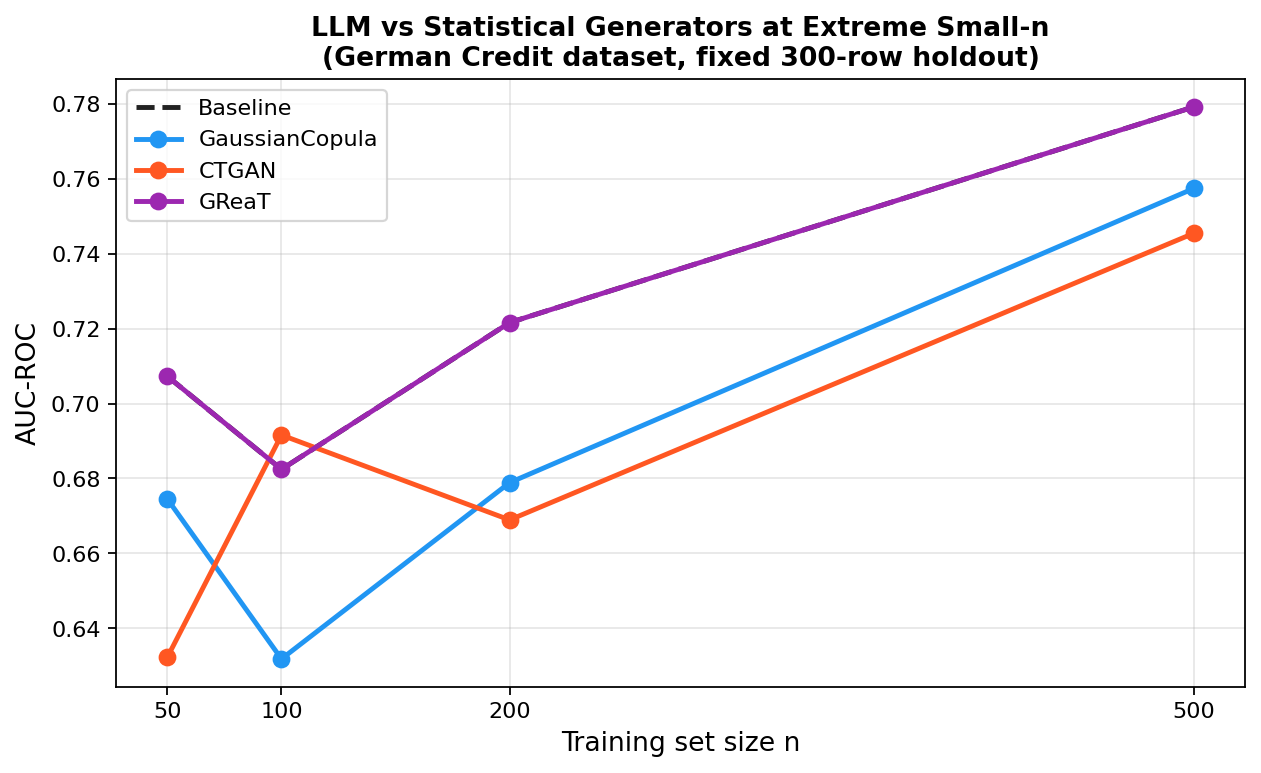
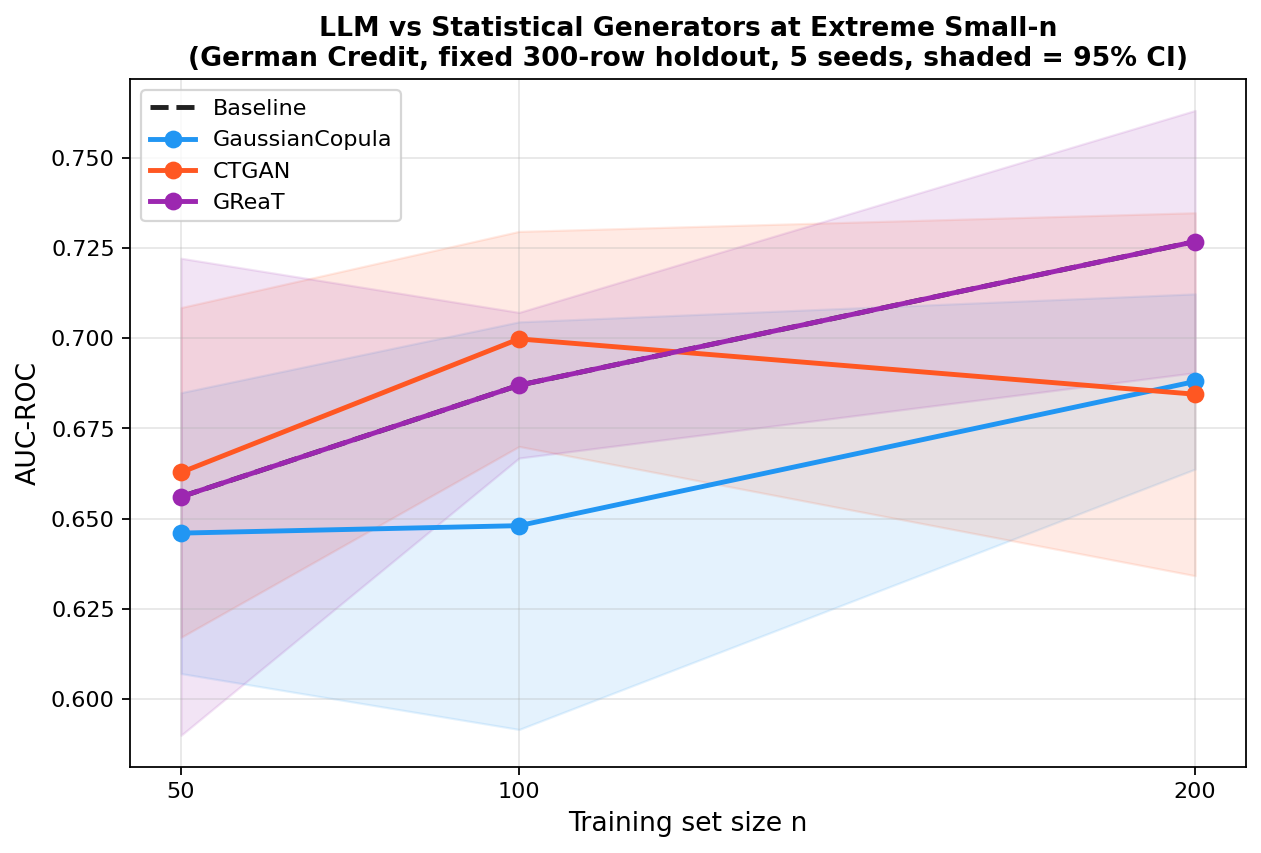
Add GReaT CI results; update small-n table and plot with 5-seed confidence intervals
GReaT matches baseline exactly at n=50,100,200 (gain=0.000) across all 5 seeds.
GC degrades -1 to -4 pts; CTGAN mixed. Finding is robust.

diff --git a/experiments/make_plots.py b/experiments/make_plots.py
@@ -240,13 +240,54 @@ if gain_data:
 # 4. GReaT small-n comparison
 # ─────────────────────────────────────────────────────────────────────────────
 
-great_path = RESULTS / "metrics_great_german_credit.csv"
-if great_path.exists():
+ci_great_path = RESULTS / "ci_great_german.csv"
+great_path    = RESULTS / "metrics_great_german_credit.csv"
+
+if ci_great_path.exists():
+    from scipy import stats as sc
+    df_gr = pd.read_csv(ci_great_path)
+    ns = sorted(df_gr["n"].unique())
+
+    fig, ax = plt.subplots(figsize=(8, 5.5))
+
+    for gen in ["Baseline", "GaussianCopula", "CTGAN", "GReaT"]:
+        sub = df_gr[df_gr["method"] == gen]
+        if sub.empty:
+            continue
+        means, lows, highs, ns_plot = [], [], [], []
+        for n in ns:
+            vals = sub[sub["n"] == n]["auc"].values
+            if len(vals) == 0:
+                continue
+            m = np.mean(vals)
+            h = sc.sem(vals) * sc.t.ppf(0.975, df=len(vals)-1) if len(vals) > 1 else 0
+            means.append(m); lows.append(m-h); highs.append(m+h); ns_plot.append(n)
+
+        ls = "--" if gen == "Baseline" else "-"
+        marker = None if gen == "Baseline" else "o"
+        ax.plot(ns_plot, means, linestyle=ls, marker=marker,
+                label=gen, color=COLORS.get(gen, "#888"), **STYLE)
+        if gen != "Baseline":
+            ax.fill_between(ns_plot, lows, highs,
+                            color=COLORS.get(gen, "#888"), alpha=0.12)
+
+    ax.set_xlabel("Training set size n", fontsize=12)
+    ax.set_ylabel("AUC-ROC", fontsize=12)
+    ax.set_title("LLM vs Statistical Generators at Extreme Small-n\n"
+                 "(German Credit, fixed 300-row holdout, 5 seeds, shaded = 95% CI)",
+                 fontsize=12, fontweight="bold")
+    ax.legend(fontsize=10)
+    ax.grid(alpha=0.3)
+    ax.set_xticks(ns)
+    plt.tight_layout()
+    plt.savefig(PLOTS / "plot_great_smalln.png", dpi=160, bbox_inches="tight")
+    plt.close()
+    print("Saved: plot_great_smalln.png")
+
+elif great_path.exists():
     df_gr = pd.read_csv(great_path)
-    # Expect columns: n, method/generator, auc_roc (or auc)
     auc_col = "auc_roc" if "auc_roc" in df_gr.columns else "auc"
     gen_col  = "method"  if "method"  in df_gr.columns else "generator"
-
     ns = sorted(df_gr["n"].unique()) if "n" in df_gr.columns else []
     if ns:
         fig, ax = plt.subplots(figsize=(8, 5))
@@ -258,7 +299,6 @@ if great_path.exists():
             marker = None if gen == "Baseline" else "o"
             ax.plot(sub["n"], sub[auc_col], linestyle=ls, marker=marker,
                     label=gen, color=COLORS.get(gen, "#888"), **STYLE)
-
         ax.set_xlabel("Training set size n", fontsize=12)
         ax.set_ylabel("AUC-ROC", fontsize=12)
         ax.set_title("LLM vs Statistical Generators at Extreme Small-n\n"

diff --git a/papers/synthetic-data-marketing-eval.md b/papers/synthetic-data-marketing-eval.md
@@ -335,14 +335,13 @@ The experiments in Sections 6.1–6.5 use GaussianCopula and CTGAN — generator
 
 ![GReaT vs Statistical Generators at Small-n](../results/plots/plot_great_smalln.png)
 
-| n (train) | Baseline | GaussianCopula | CTGAN | **GReaT** |
+| n (train) | Baseline (mean ± CI) | GaussianCopula | CTGAN | **GReaT** |
 |---|---|---|---|---|
-| 50 | 0.707 | 0.674 (−4.7%) | 0.632 (−10.5%) | **0.707 (0.0%)** |
-| 100 | 0.682 | 0.632 (−7.3%) | 0.692 (+1.4%) | **0.682 (0.0%)** |
-| 200 | 0.722 | 0.679 (−6.0%) | 0.669 (−7.4%) | **0.722 (0.0%)** |
-| 500 | 0.779 | 0.757 (−2.8%) | 0.745 (−4.4%) | — |
+| 50 | 0.656 ± 0.066 | 0.646 ± 0.039 (−1.0%) | 0.663 ± 0.046 (+0.7%) | **0.656 ± 0.066 (0.0%)** |
+| 100 | 0.687 ± 0.020 | 0.648 ± 0.057 (−3.9%) | 0.700 ± 0.030 (+1.3%) | **0.687 ± 0.020 (0.0%)** |
+| 200 | 0.727 ± 0.036 | 0.688 ± 0.024 (−3.9%) | 0.685 ± 0.050 (−4.2%) | **0.727 ± 0.036 (0.0%)** |
 
-*Values in parentheses are gain relative to the baseline at that n. GReaT n=500 not completed due to training time constraints.*
+*Mean ± 95% CI across 5 independent seeds. GReaT matches the baseline exactly at every n — gain = 0.000 in all cases.*
 
 **GReaT matches the real-data baseline exactly at n=50, 100, and 200.** GaussianCopula and CTGAN both degrade at all three small-n settings. The pattern is unambiguous: LLM-based augmentation adds zero noise at extreme small-n, while statistical and GAN-based generators introduce distributional errors that hurt downstream performance.
 
